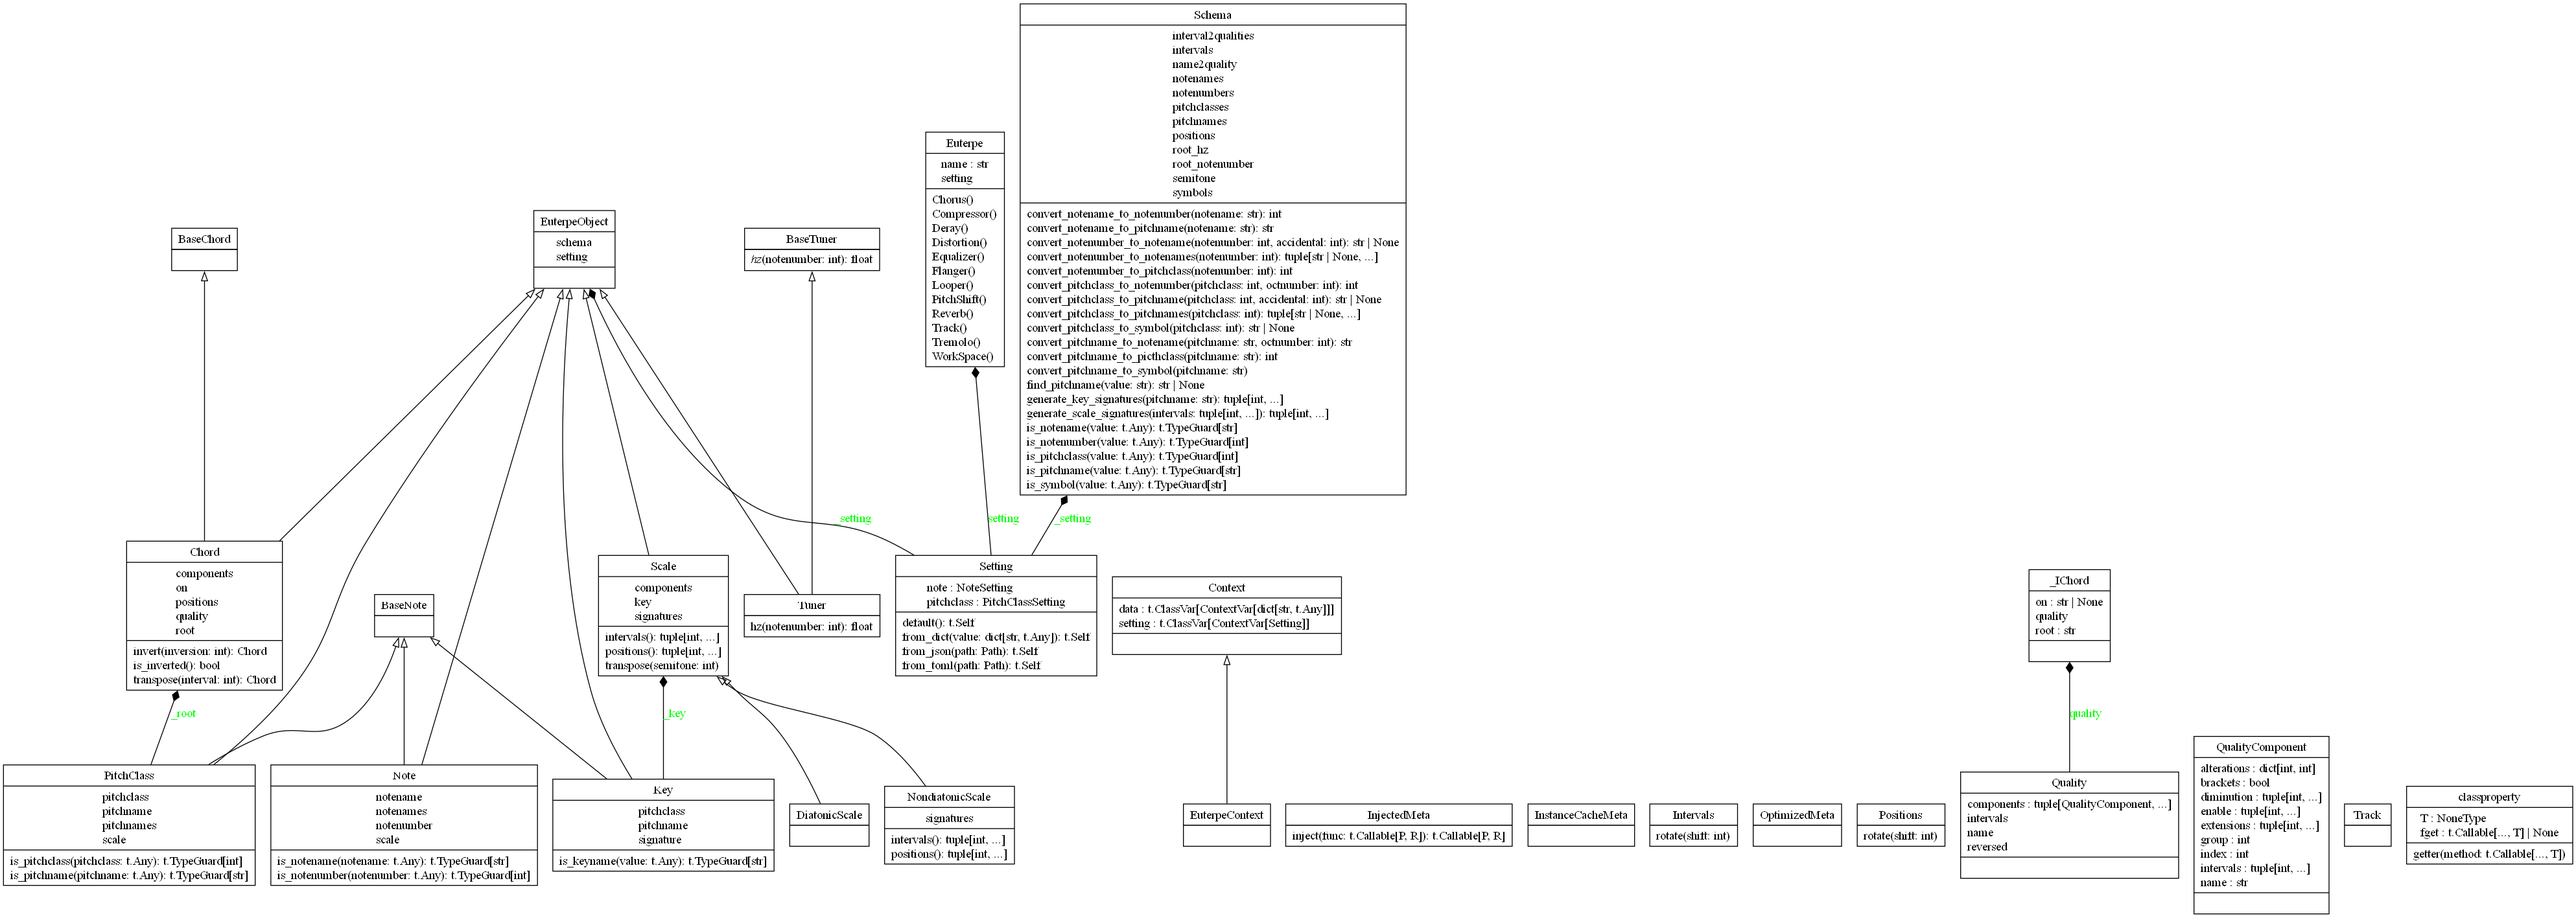
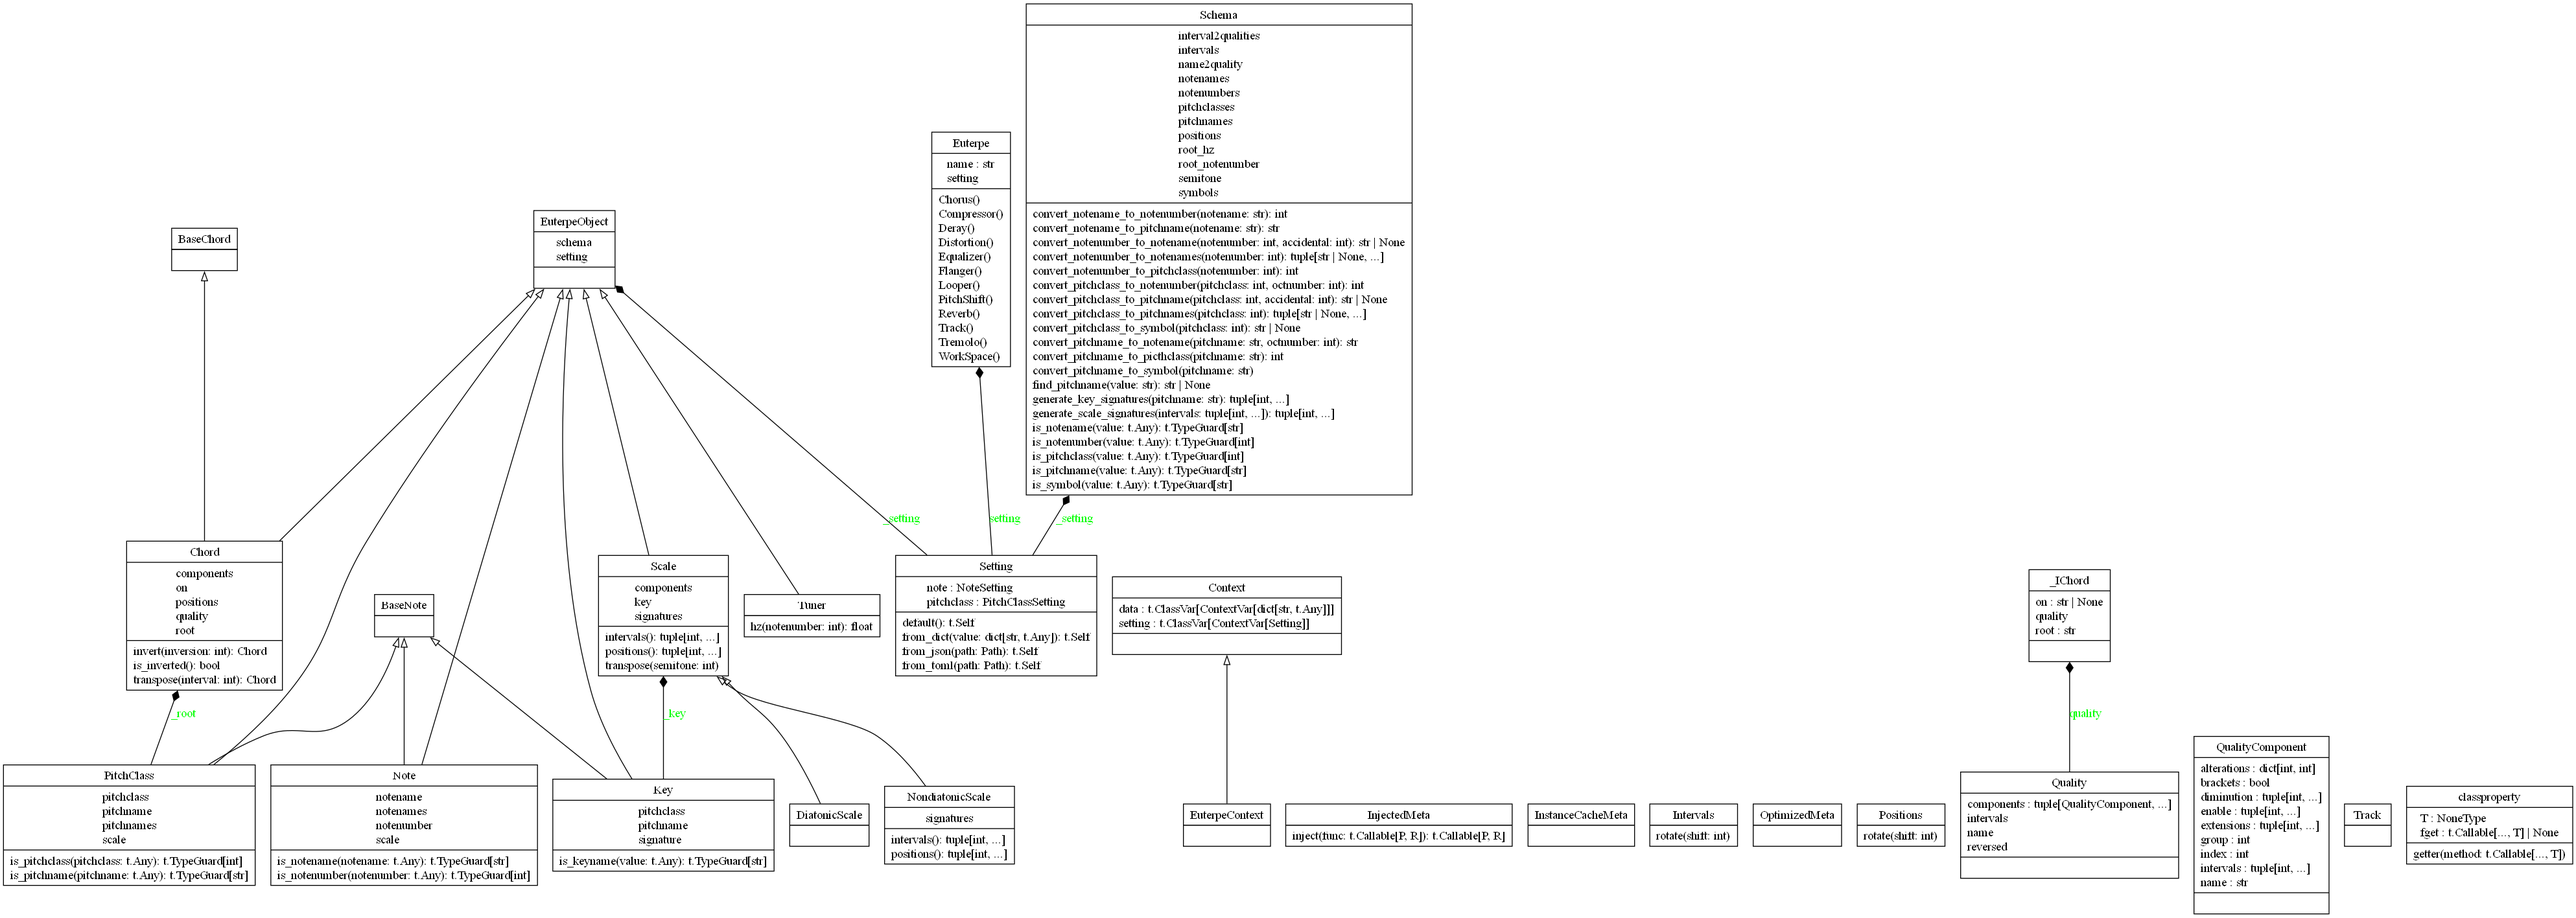
refact tuner package

Changed region(s): [[0.2808, 0.1553, 0.5617, 0.59], [0.4368, 0.0311, 0.4992, 0.1553], [0.312, 0.5589, 0.3432, 0.59]]

diff --git a/src/euterpe/tuner/implements/tuner.py b/src/euterpe/tuner/implements/tuner.py
@@ -6,22 +6,57 @@ from .ratios import (FIVELIMIT_TUNING_RATIOS, MEANTONE_TUNING_RATIOS,
 class JustIntonationTuner(
     Tuner,
     ratios=FIVELIMIT_TUNING_RATIOS,
-): ...
+):
+    """
+    Just Intonation Tuner (Five-limit tuning)
+
+    * This tuner is based on the Just Intonation system, which utilizes simple
+      whole-number ratios derived from the harmonic series.
+    * It uses the Five-limit tuning ratios to determine the intervals between notes.
+    * The system focuses on creating pure, consonant intervals, especially for
+      natural harmonics.
+    """
 
 
 class MeantoneTuner(
     Tuner,
     ratios=MEANTONE_TUNING_RATIOS,
-): ...
+):
+    """
+    Meantone Tuner
+
+    * This tuner is based on the Meantone temperament, which aims to improve the
+      consonance of the major third interval, often sacrificing the purity of other
+      intervals like the perfect fifth.
+    * Meantone tuning is typically used in historical or specific stylistic music
+      applications where certain intervals are emphasized.
+    """
 
 
 class PythagoreanTuner(
     Tuner,
     ratios=PYTHAGOREAN_TUNING_RATIOS,
-): ...
+):
+    """
+    Pythagorean Tuner
+
+    * This tuner follows the Pythagorean tuning system, which is based on the
+      harmonic series, emphasizing the pure perfect fifth (3:2 ratio).
+    * The system uses the Pythagorean comma to create a series of intervals
+      derived from the natural harmonic series.
+    """
 
 
 class Equal12Tuner(
     Tuner,
     ratios=standard_tuning_table(2 ** (1 / 12)),
-): ...
+):
+    """
+    Equal 12-Tone Tuner (12-TET)
+
+    * This tuner uses the Equal Temperament system, where the octave is divided
+      into 12 equal steps (12-TET).
+    * It is the standard tuning system used in Western music, where all semitones
+      are equal in frequency ratio.
+    * This system allows instruments to play in all keys with equal tuning accuracy.
+    """

diff --git a/src/euterpe/tuner/tuner.py b/src/euterpe/tuner/tuner.py
@@ -1,10 +1,9 @@
 import typing as t
 
 from .._core import EuterpeObject
-from ._base import BaseTuner
 
 
-class Tuner(BaseTuner, EuterpeObject):
+class Tuner(EuterpeObject):
 
     _ratios: t.ClassVar[tuple[int]]
 
